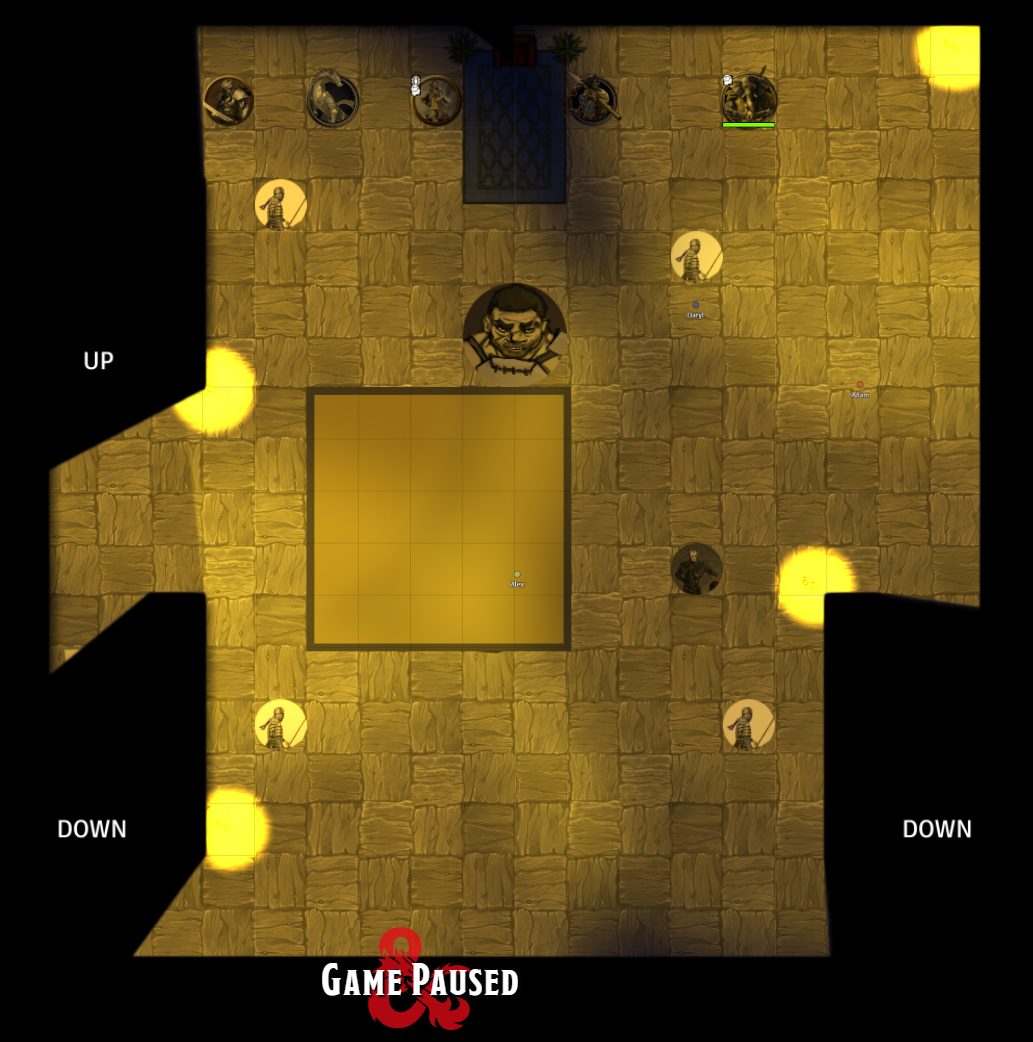
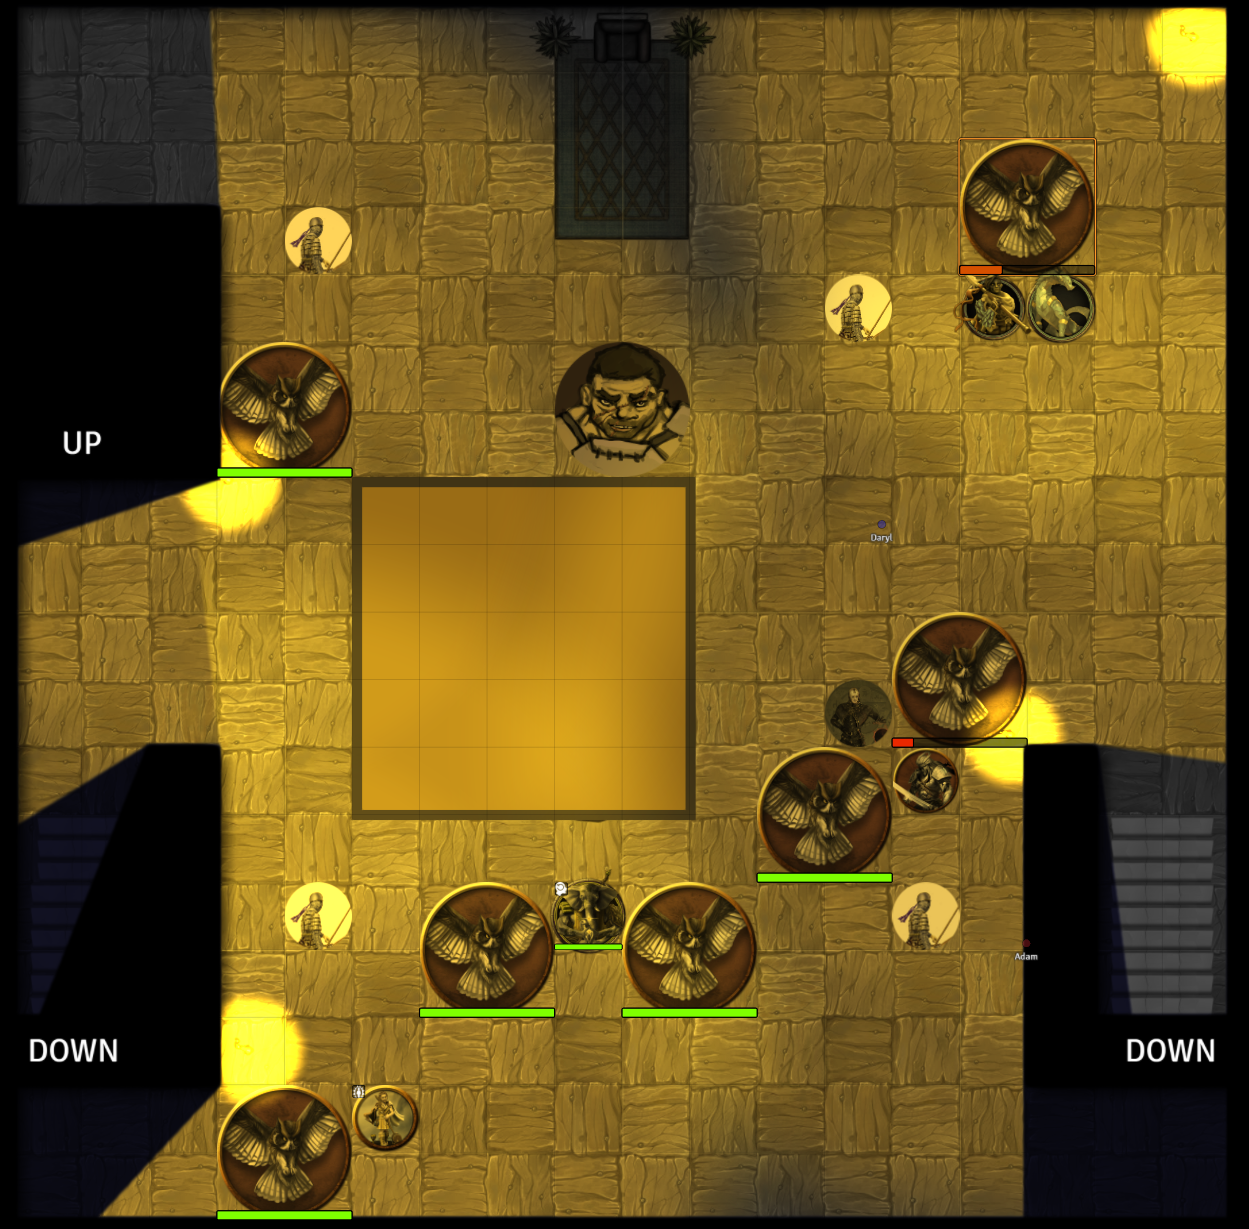
vault backup: 2026-01-25 21:32:39

diff --git a/Sessions/2026/01 25 - Session 59.md b/Sessions/2026/01 25 - Session 59.md
@@ -47,7 +47,7 @@ Owl 6  Kaulinan 19/19
 Owl 7 19/19
 Owl 8 19/19
 
-![[Pasted image 20260125184741.png]]
+![[SBO L6 (Roof).png]]
 ![[Piggy.png]]
 > "[[Torniar Maluka|Torniar]] will hear of this"
 
@@ -56,22 +56,21 @@ Revant gets stuck in a celeres, mortal wound but not causing an effect?
 Tower collapses in explosion
 
 
+![[Evangeline Stifka.png]]
 Evangeline Stifka, cylinders by her side
 Shaved head
 
 
-![[Pasted image 20260125195354.png]]
+![[SBO L3.png]]
 
 > "They got to me first"
 > - Evangelene Stifka
 
 
-![[SBO L5.png]]
+![[SBO L4.png]]
 
 > "I killed my mother"
 > - Piggy
 
 > "I didn't mean to."
 > - Piggy
-
-![[Piggy.png]]![[Evangeline Stifka.png]]
